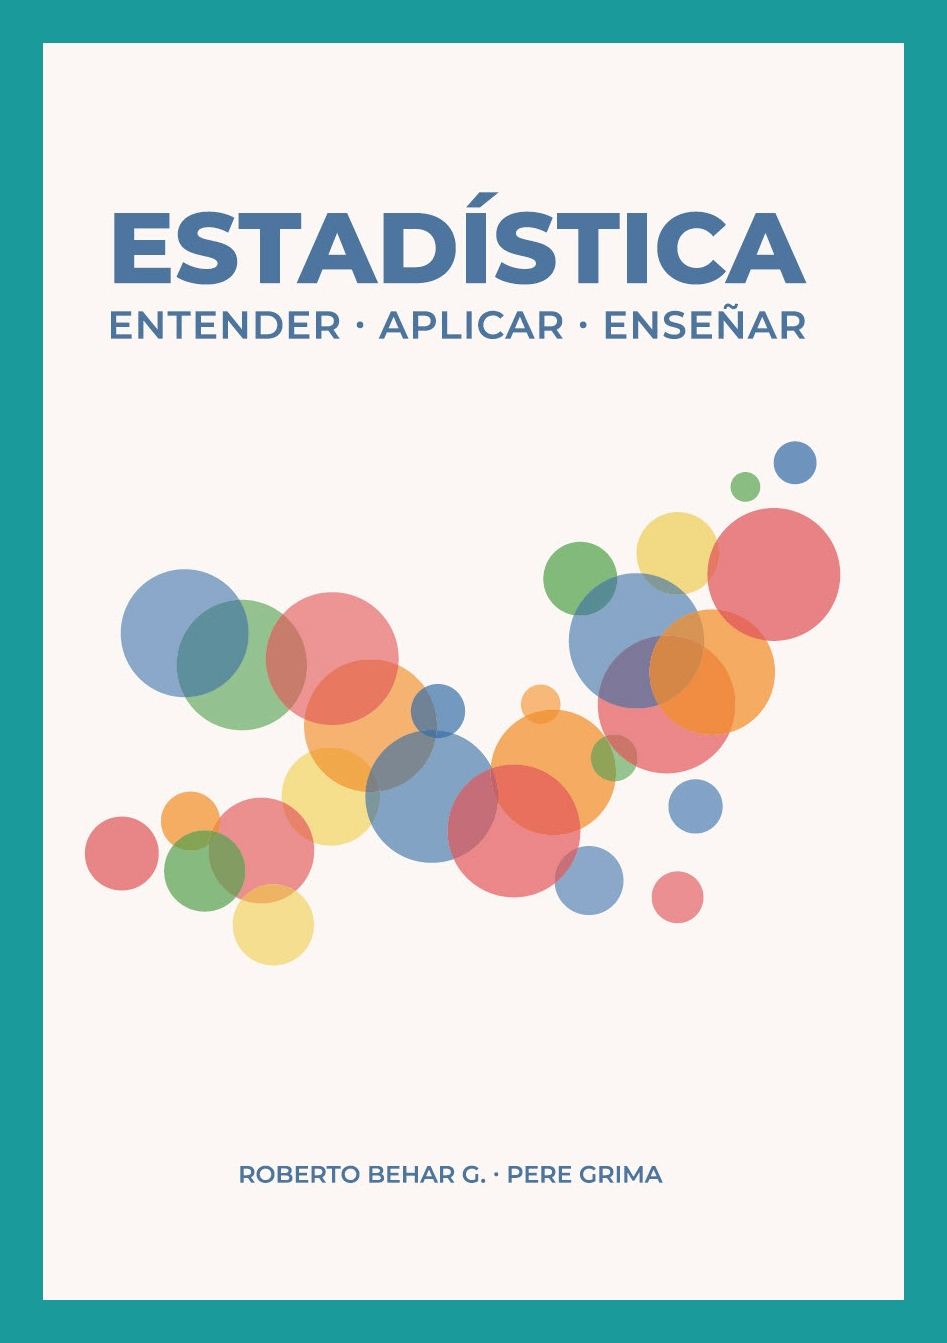
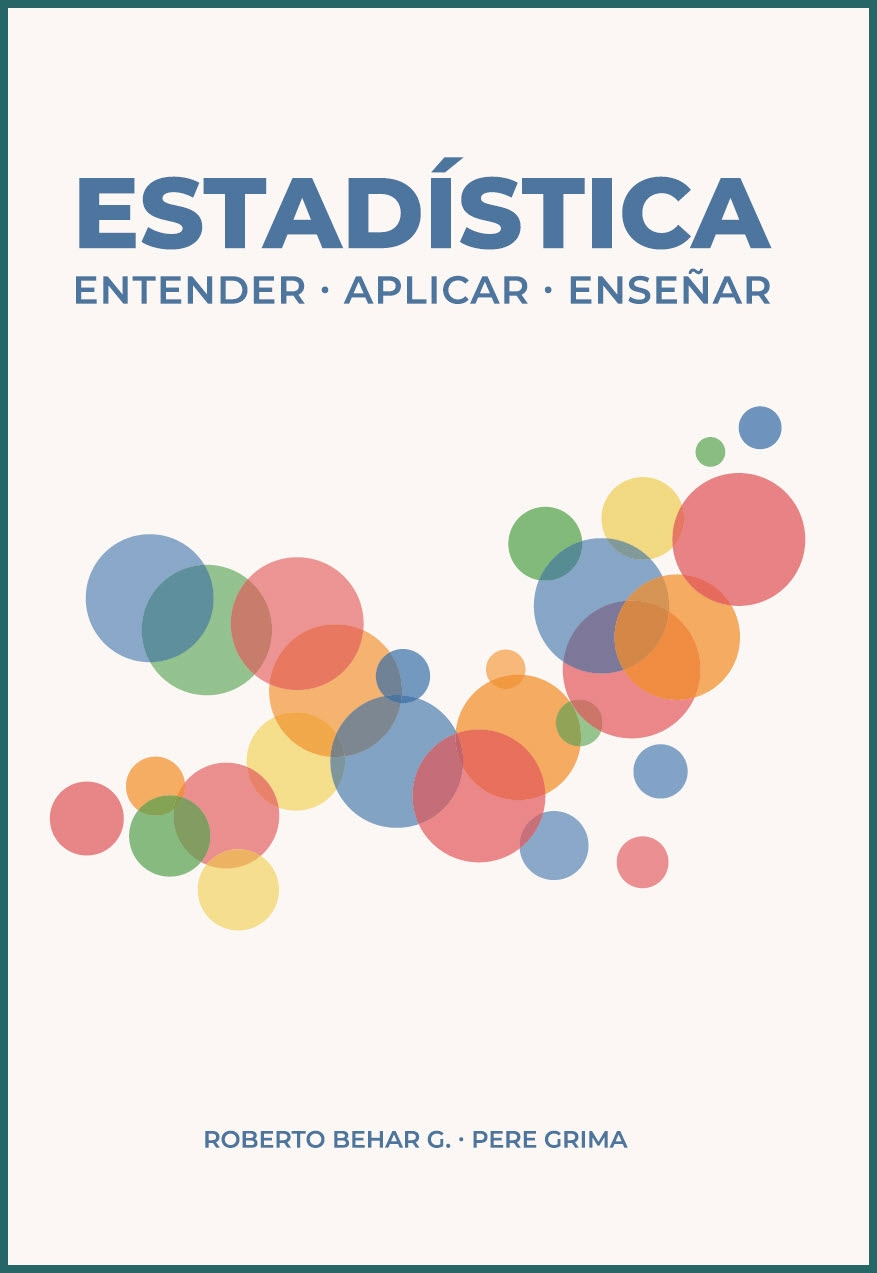
Mejoras en la portada

diff --git a/docs/index.html b/docs/index.html
@@ -341,7 +341,6 @@ ul.task-list li input[type="checkbox"] {
 <div class="poco-espacio">
 <p>Se puede comprar en <a href="https://amzn.eu/d/hGbwqAH" title="Amazon.es">Amazon.es</a> o <a href="https://www.amazon.com/dp/B09SL18YRT" title="Comprar en Amazon.com">Amazon.com</a>. Puede darle un vistazo <a href="https://drive.google.com/file/d/1fc6IzkGLUxiCgxfc0rZkKO-Pr53qJ-uj/view?usp=sharing">aquí</a>.<br>Se publica bajo una licencia Creative Commons: <a href="https://creativecommons.org/licenses/by-nc-nd/4.0/deed.es" title="Licencia Creative Commons">CC BY-NC-ND 4.0</a>.</p>
 </div>
-<p><em>LA PORTADA ES DE OTRO LIBRO.</em> Solo para ver como queda.</p>
 
 
 </section>